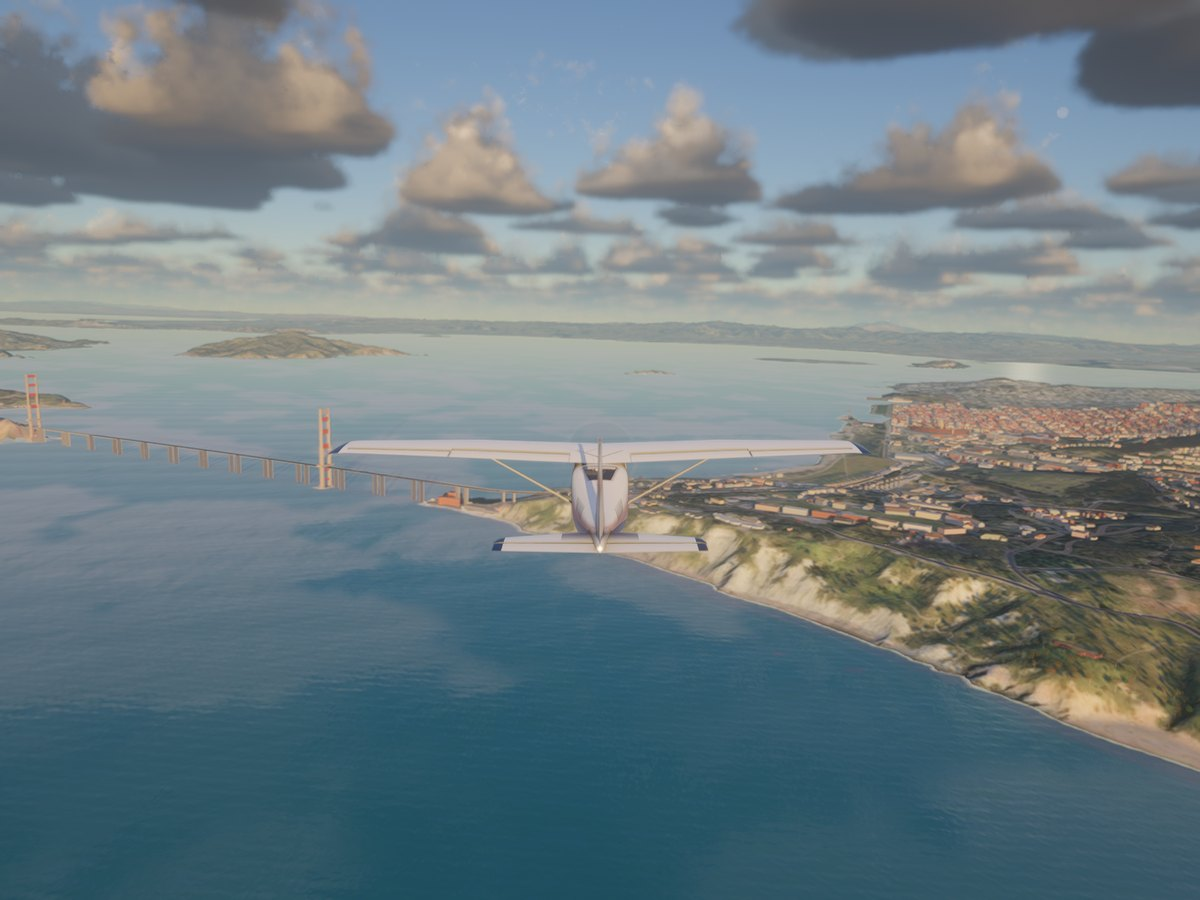
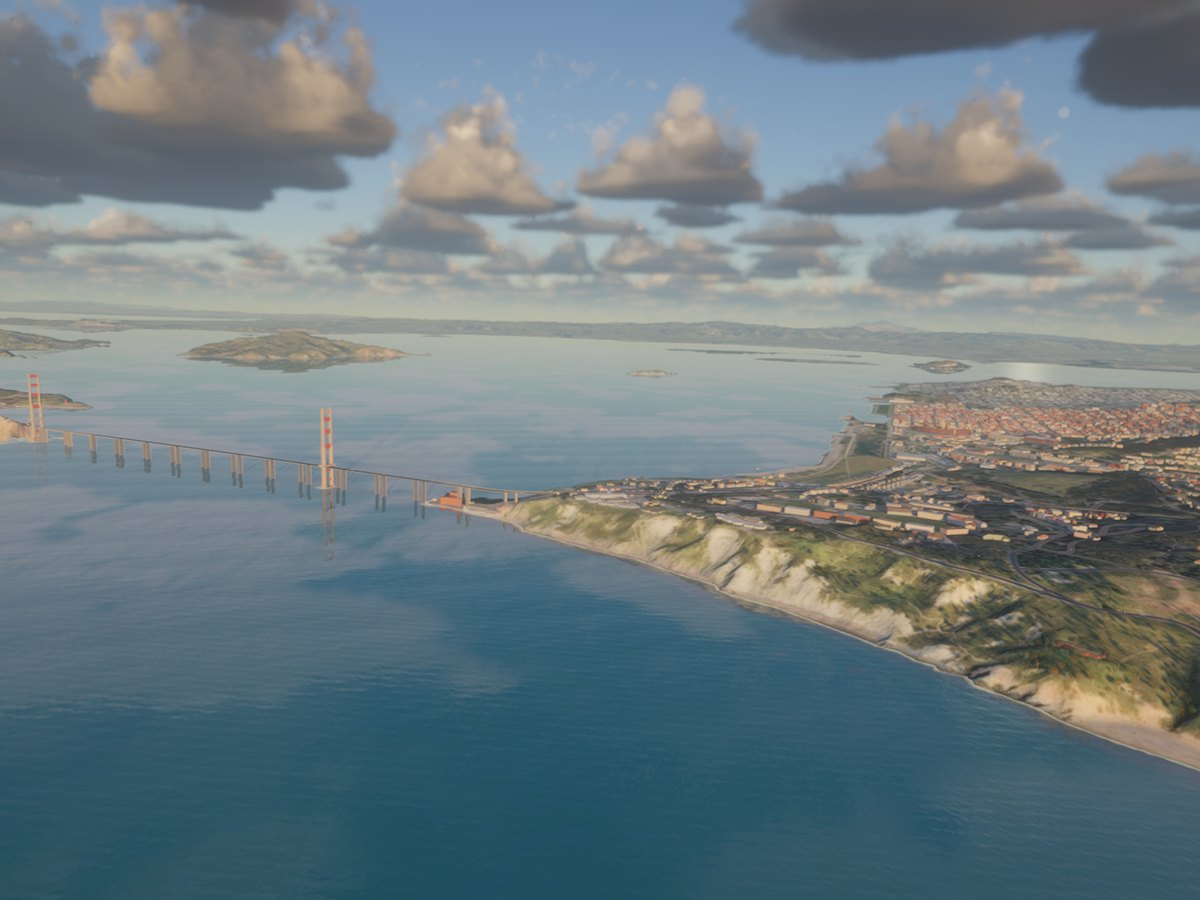
UI Polish: Scenery Instead of Aircraft Behind Free Flight and Career, and a No Aircraft Flag for Scenery Shots.

diff --git a/src/main.rs b/src/main.rs
@@ -1028,6 +1028,11 @@ fn parse_args_from(v: &[String]) -> Result<Args, String> {
                 a.no_hud = true;
                 used = 1;
             }
+            "--no-aircraft" => {
+                // (read by `no_aircraft`): the scenery alone in --shot pictures
+                a.no_hud = true;
+                used = 1;
+            }
             "--fuel" => a.fuel = Some(req_num(flag, i)?.clamp(0.0, 1.0)),
             "--arcade" => {
                 a.arcade = true;
@@ -1133,6 +1138,12 @@ fn mp_kept_off(a: &Args) -> bool {
 fn still_mode() -> bool {
     static S: std::sync::OnceLock<bool> = std::sync::OnceLock::new();
     *S.get_or_init(|| std::env::args().any(|a| a == "--still"))
+}
+
+/// `--no-aircraft`: frames of the scenery alone (the menu's pictures), the aircraft not drawn.
+fn no_aircraft() -> bool {
+    static S: std::sync::OnceLock<bool> = std::sync::OnceLock::new();
+    *S.get_or_init(|| std::env::args().any(|a| a == "--no-aircraft"))
 }
 
 fn url_encode(s: &str) -> String {
@@ -7491,7 +7502,7 @@ impl Game {
             let n = self.model.pieces.len();
             let order: Vec<usize> = (0..n).filter(|&i| self.piece_inner[i] == seat).chain((0..n).filter(|&i| self.piece_inner[i] != seat)).collect();
             for (i, p) in order.into_iter().map(|i| (i, &self.model.pieces[i])) {
-                if far_out && self.piece_inner[i] {
+                if (far_out && self.piece_inner[i]) || no_aircraft() {
                     continue;
                 }
                 let hide = match p.vis {
@@ -7586,7 +7597,7 @@ impl Game {
         let mut insts = Vec::new();
         let mut scenery = Vec::new();
         let mut fall = Vec::new();
-        let mut air_lights = own_lights;
+        let mut air_lights = if no_aircraft() { Vec::new() } else { own_lights };
         if !in_menu {
             let local = (self.utc + clon.to_degrees() / 15.0).rem_euclid(24.0);
             let sun_up = geo::enu(cam).2.dot(self.sun_dir());

diff --git a/src/mainmenu.rs b/src/mainmenu.rs
@@ -16,11 +16,11 @@ use egui::{pos2, vec2, Align2, Color32, FontId, Painter, Pos2, Rect, Sense, Stro
 /// its size beyond the aspect (it is cropped to fill the tile).
 pub const GLOBE_PICTURE: &[u8] = include_bytes!("../assets/ui/globe.jpg");
 
-/// the pictures behind fly's two choices, the game's own frames at 1600 x 1200
-/// with the hud off, scaled to 1200 x 900. free flight: the 172 over the golden
-/// gate (`--lat 37.79 --lon -122.52 --alt 500 --heading 70 --aircraft c172
-/// --time 16 --weather fair --tail-view`). career: the 747 lined up at san
-/// francisco at sunrise (`--airport KSFO --aircraft 747 --time 7.4`).
+/// the pictures behind fly's two choices: the game's own scenery, no aircraft
+/// (`--no-aircraft --weather fair --tail-view`, 1600 x 1200 scaled to 1200 x 900).
+/// free flight: the golden gate in the afternoon (`--lat 37.79 --lon -122.52
+/// --alt 500 --heading 70 --time 16`). career: the bay at sunrise with san
+/// francisco's runways (`--lat 37.56 --lon -122.30 --alt 700 --heading 330 --time 7.3`).
 pub const FREE_PICTURE: &[u8] = include_bytes!("../assets/ui/free.jpg");
 pub const CAREER_PICTURE: &[u8] = include_bytes!("../assets/ui/career.jpg");
 
